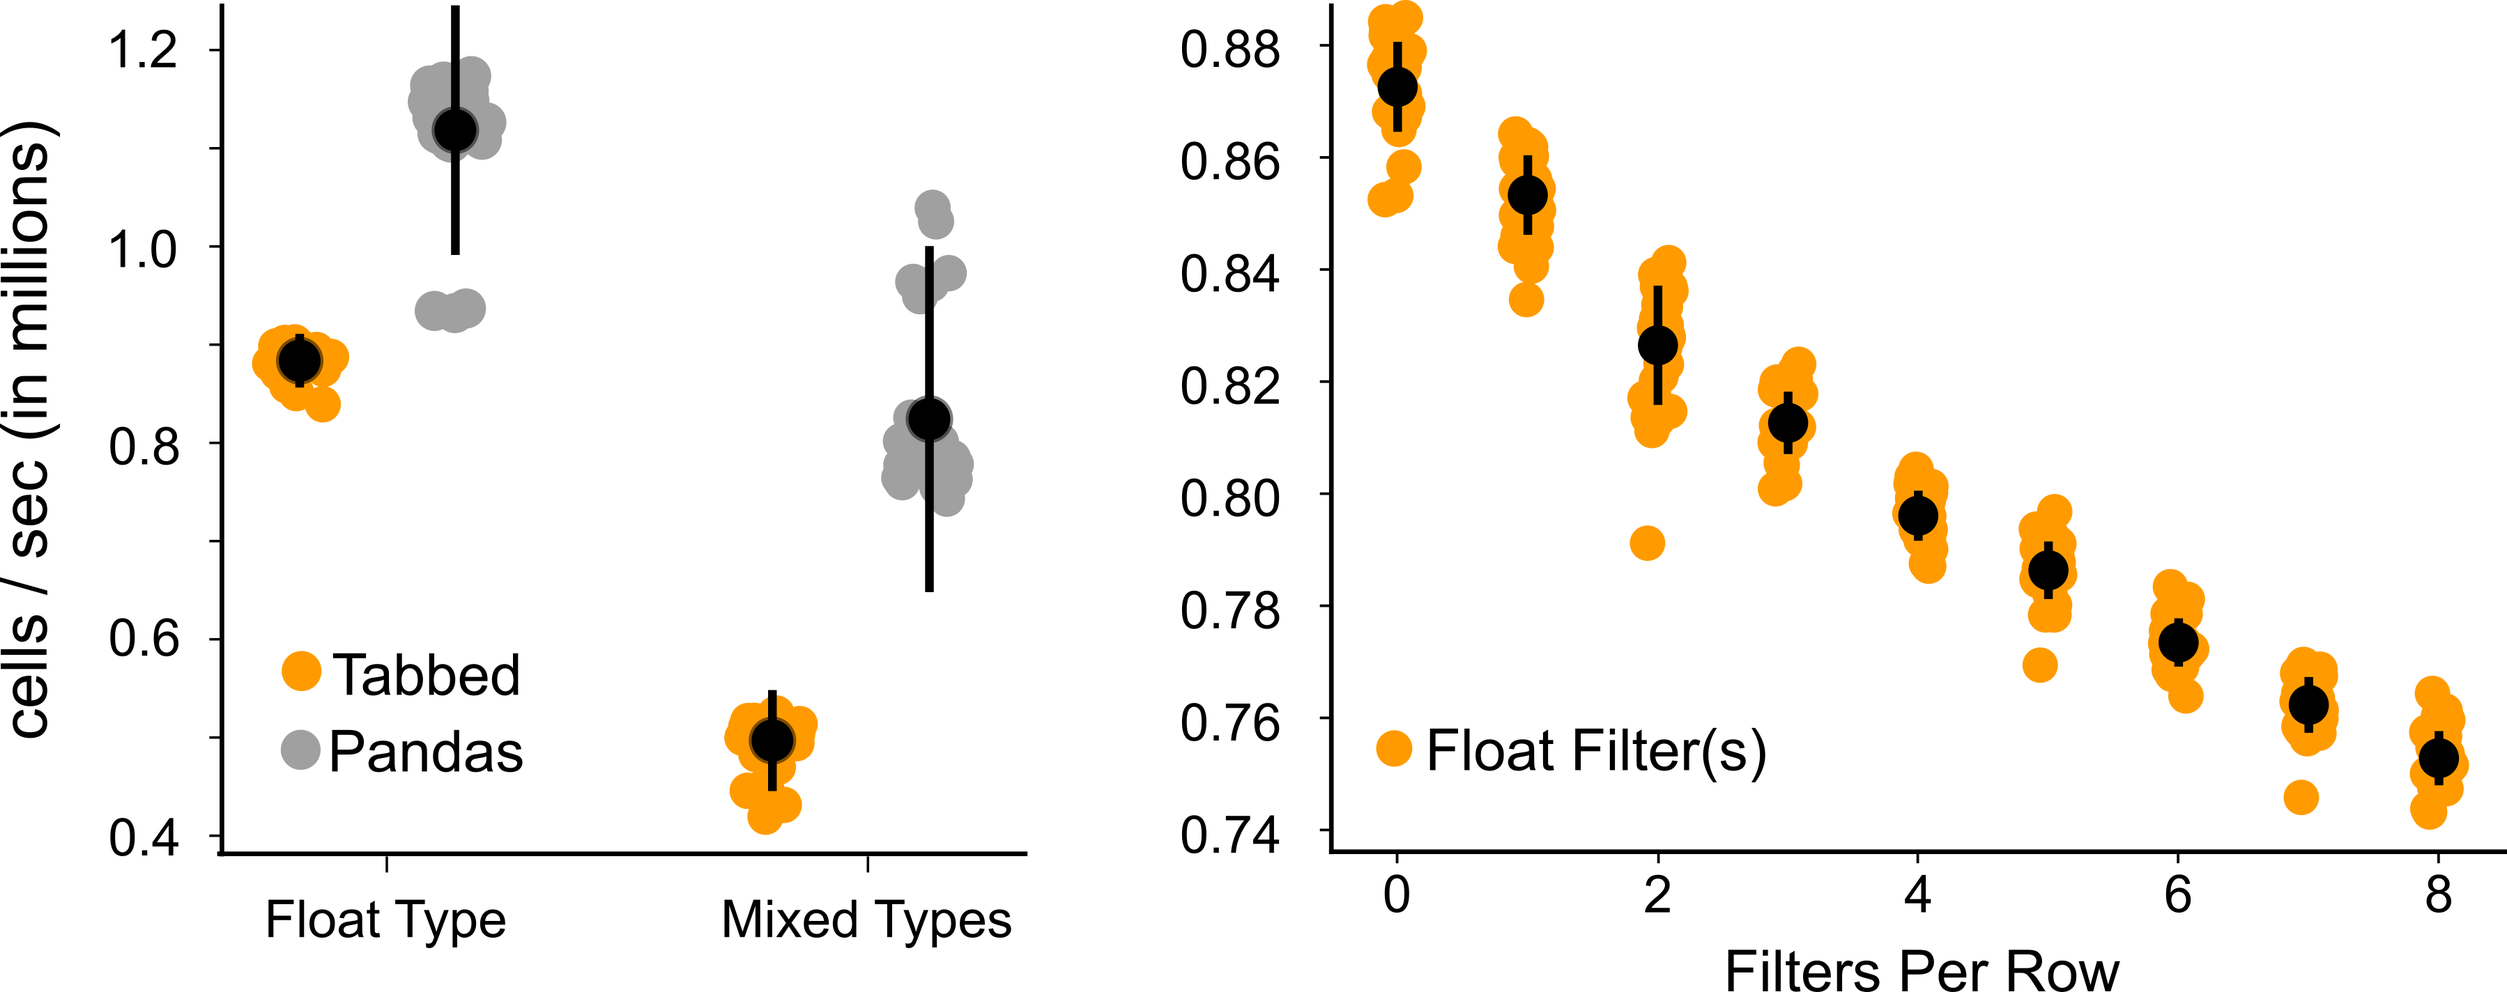
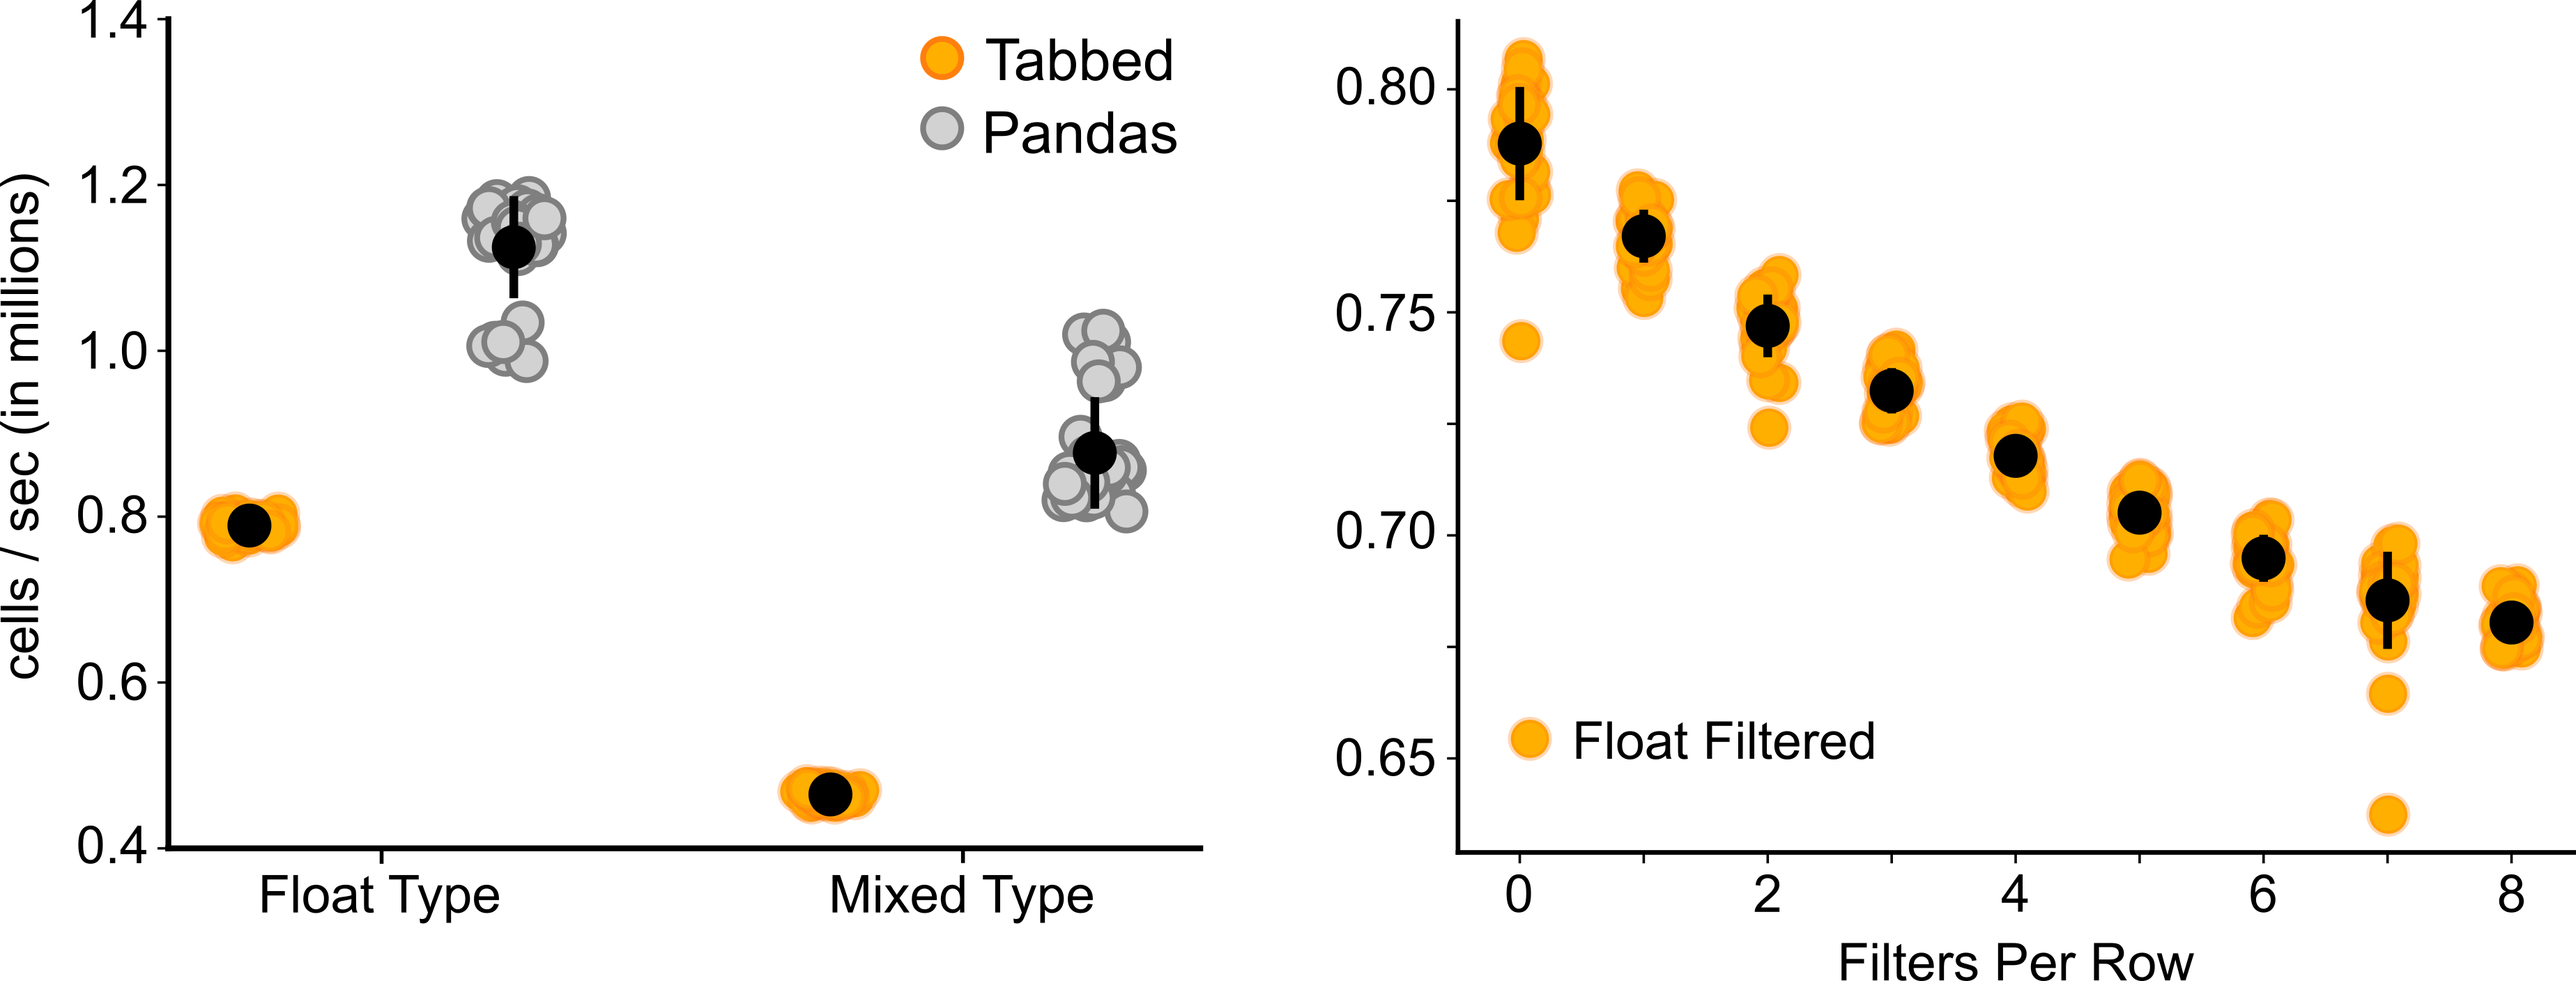
[feature, docs]: addresses reviewer @ymahlau request for plotting script issue #18 and addresses speed changes that occurred as the ',' decimal mark support was added as requested in issue #17

diff --git a/paper/plots.py b/paper/plots.py
@@ -1,0 +1,291 @@
+import csv
+import datetime
+from itertools import batched
+from itertools import chain
+import pathlib
+import random
+import time
+
+import matplotlib.pyplot as plt
+import numpy as np
+import pandas as pd
+
+import tabbed
+
+ROWS=100e3
+COLS=10
+
+def write_floatcsv(path=None, name='floatcsv.txt', seed=0, rows=ROWS, cols=COLS):
+    """Writes a text file of stringed float values to path.
+
+    Args:
+        path:
+            A string or path instance to a directory where this float csv will
+            be written to.
+        name:
+            The name of the file to write.
+        seed:
+            A seed for Python's random number generator.
+        columns:
+            The number of columns to write.
+        rows:
+            The number of data rows to write.
+    """
+
+    # header & data generation
+    header = [f'Column_{i}' for i in range(cols)]
+    rgen = random.Random()
+    rgen.seed(seed)
+    data = [rgen.random() for _ in range(int(rows * cols))]
+    data = batched(data, cols)
+    # create path and write
+    path = pathlib.Path.cwd() if not path else Path(path)
+    fp = path / name
+    with open(fp, 'w+') as outfile:
+        writer = csv.writer(outfile)
+        writer.writerow(header)
+        for idx, row in enumerate(data):
+            print(f'Writing float data: {idx/rows * 100:.0f}% complete',
+                  end='\r', flush=True)
+            writer.writerow(row)
+
+    print('write complete')
+
+
+def write_mixedcsv(path=None, name='mixedcsv.txt', seed=0, rows=ROWS, cols=COLS):
+    """Writes a text file to path containing floats and datetimes.
+
+    Args:
+        path:
+            A string or path instance to a directory where this mixed csv will
+            be written to.
+        name:
+            The name of the file to write.
+        seed:
+            A seed for Python's random number generator.
+        columns:
+            The number of columns to write.
+        rows:
+            The number of data rows to write.
+    """
+
+    # header & data generation
+    header = [f'Column_{i}' for i in range(cols)]
+    rgen = random.Random()
+    rgen.seed(seed)
+    data = [rgen.random() for _ in range(int(rows * cols))]
+    data = [list(tup) for tup in batched(data, cols)]
+
+    # set the second column to be a date
+    for row in data:
+        row[2] = '9/22/2023'
+
+    # create path and write
+    path = pathlib.Path.cwd() if not path else Path(path)
+    fp = path / name
+    with open(fp, 'w+') as outfile:
+        writer = csv.writer(outfile)
+        writer.writerow(header)
+        for idx, row in enumerate(data):
+            print(f'Writing mixed data: {idx/rows * 100:.0f}% complete',
+                  end='\r', flush=True)
+            writer.writerow(row)
+
+    print('write complete')
+
+
+def time_tabbed(fp, trials):
+    """Computes the number of cells per second tabbed reads for each trial in
+    trials.
+
+    Args:
+        fp:
+            Path to a text file to read and parse.
+        trials:
+            Number of times to read the file
+
+    Returns:
+        A list of speeds in cells per sec units one per trial in trials.
+    """
+
+    speeds = []
+    for trial in range(trials):
+        infile = open(fp, 'r')
+        reader = tabbed.reading.Reader(infile)
+        gen = reader.read(chunksize=int(10e3))
+        t0 = time.perf_counter()
+        data = list(chain.from_iterable(gen))
+        elapsed = time.perf_counter() - t0
+        speeds.append((ROWS * COLS)/elapsed)
+
+        infile.close()
+
+    return speeds
+
+
+def time_pandas(fp, trials, **kwargs):
+    """Computes the number of cells per second that pandas reads for each trial
+    in trials.
+
+    Args:
+        fp:
+            Path to a text file to read and parse.
+        trials:
+            Number of times to read the file
+
+    Returns:
+        A list of speeds in cells per sec units one per trial in trials.
+    """
+
+    speeds = []
+    for trial in range(trials):
+        infile = open(fp, 'r')
+        reader = pd.read_csv(
+                infile,
+                chunksize=int(10e3),
+                engine='python',
+                **kwargs,
+        )
+        t0 = time.perf_counter()
+        data = [chunk.to_dict(orient='records') for chunk in reader]
+        data = list(chain.from_iterable(data))
+        elapsed = time.perf_counter() - t0
+        speeds.append((ROWS * COLS) / elapsed)
+        infile.close()
+
+    return speeds
+
+
+def time_filtering(fp, trials, maxtab=8):
+    """Compares the time to read cells with and without Tab filters."""
+
+
+    ntabs = range(maxtab+1)
+    speeds = {tab: [] for tab in ntabs}
+    infile = open(fp, 'r')
+    reader = tabbed.reading.Reader(infile)
+    for ntabbed in ntabs:
+        print(f'Computing speeds with {ntabbed} tabs')
+        tabs = [tabbed.tabbing.Comparison(f'Column_{i}', '> 0.1') for i in
+                range(ntabbed)]
+        reader.tabulator = tabbed.tabbing.Tabulator(reader.header, tabs=tabs)
+
+        for trial in range(trials):
+            gen = reader.read(chunksize=int(10e3))
+            t0 = time.perf_counter()
+            data = list(chain.from_iterable(gen))
+            elapsed = time.perf_counter() - t0
+            speeds[ntabbed].append((ROWS * COLS)/elapsed)
+
+    infile.close()
+
+    return speeds
+
+
+def scatterplot_speed_compare(data, jitter, ax=None):
+    """Scatterplot values in data dictionary using keys as labels.
+
+    Args:
+        data:
+            Dataset containing named arrays to scatterplot.
+        jitter:
+            The maximum x-displacement per sequence in data's values
+
+    Returns:
+        A matplotlib axes instance.
+    """
+
+    if ax is None:
+        fig, ax = plt.subplots()
+
+    groups = list(data.keys())
+    for idx, values in enumerate(data.values(), 1):
+        locs = np.random.uniform(-jitter, jitter, len(values)) + idx
+        if idx % 2 == 1:
+            color = 'tab:orange'
+        else:
+            color = 'tab:gray'
+        ax.scatter(locs, values, color=color, s=150)
+        ax.scatter(idx, np.mean(values), c='k', s=150)
+        ax.errorbar(idx, np.mean(values), yerr=np.std(values), color='k')
+        ax.spines[['right', 'top']].set_visible(False)
+        ax.set_xticks([1.5, 3.5], labels=['Float Type', 'Mixed Type'])
+        ax.set_yticks(list(np.arange(4e5, 15e5, 2e5)))
+
+    return ax
+
+
+def scatterplot_tab_compare(data, jitter, ax=None):
+    """Scatterplot values in data dictionary using keys as labels.
+
+    Args:
+        data:
+            Dataset containing named arrays to scatterplot.
+        jitter:
+            The maximum x-displacement per sequence in data's values
+
+    Returns:
+        A matplotlib axes instance.
+    """
+
+    if ax is None:
+        fig, ax = plt.subplots()
+
+    groups = list(data.keys())
+    for idx, values in enumerate(data.values()):
+        locs = np.random.uniform(-jitter, jitter, len(values)) + idx
+        ax.scatter(locs, values, color='tab:orange', s=150)
+        ax.scatter(idx, np.mean(values), c='k', s=150)
+        ax.errorbar(idx, np.mean(values), yerr=np.std(values), color='k')
+        ax.spines[['right', 'top']].set_visible(False)
+
+    return ax
+
+
+def software_comparison(trials):
+    """Plots the speed of Tabbed vs Pandas on numeric and mixed data type
+    files.
+
+    Args:
+        trials:
+            The integer number of trials to test speeds.
+    """
+
+    results = {}
+    results['tabbed_numeric'] = time_tabbed('floatcsv.txt', trials=trials)
+    results['pandas_numeric'] = time_pandas('floatcsv.txt', trials=trials)
+
+    results['tabbed_mixed'] = time_tabbed('mixedcsv.txt', trials=trials)
+    results['pandas_mixed'] = time_pandas('mixedcsv.txt', trials=trials,
+                                          parse_dates=[2])
+
+    scatterplot_speed_compare(results, jitter=0.1)
+    plt.show()
+
+
+def filtering_comparison(trials, maxtabs=8):
+    """Plots the speeds in millions of cells per sec as a function of the number
+    of comparison tabs applied during reading.
+
+    Args:
+        trials:
+            The number of times to compute the speeds.
+        maxtabs:
+            The max value of the tabs to apply. This will range from 0 to
+            maxtabs inclusively.
+    """
+
+    speeds = time_filtering('floatcsv.txt', trials, maxtabs)
+    scatterplot_tab_compare(speeds, jitter=0.1)
+    plt.show()
+
+if __name__ == '__main__':
+
+    #write_floatcsv()
+    #write_mixedcsv()
+
+    #tabbed_speeds = time_tabbed('mixedcsv.txt', trials=5)
+    #panda_speeds, pdata = time_pandas('mixedcsv.txt')
+
+    #software_comparison(30)
+    filtering_comparison(30)

diff --git a/paper/paper.md b/paper/paper.md
@@ -128,8 +128,8 @@ like pandas `python` engine or tabbed's `Reader` class.  The speed test was
 conducted on a DSV file with all floats and a DSV file with floats and datetime
 instances. The file size in each case was 10 columns by 100,000 rows. The left
 panel of \autoref{fig: figure2} shows that tabbed is slower on both the float
-and mixed type files by approximately 30%.  Nevertheless, users can expect to
-read millions of cells from a DSV file in just a few seconds with tabbed.
+and mixed type files.  Nevertheless, users can expect to read millions of cells
+from a DSV file in just a few seconds with tabbed.
 
 ![Tabbed and pandas read speed comparison. Left: Comparison of number of cells
 casted per second between tabbed and pandas for DSV files composed of floats
